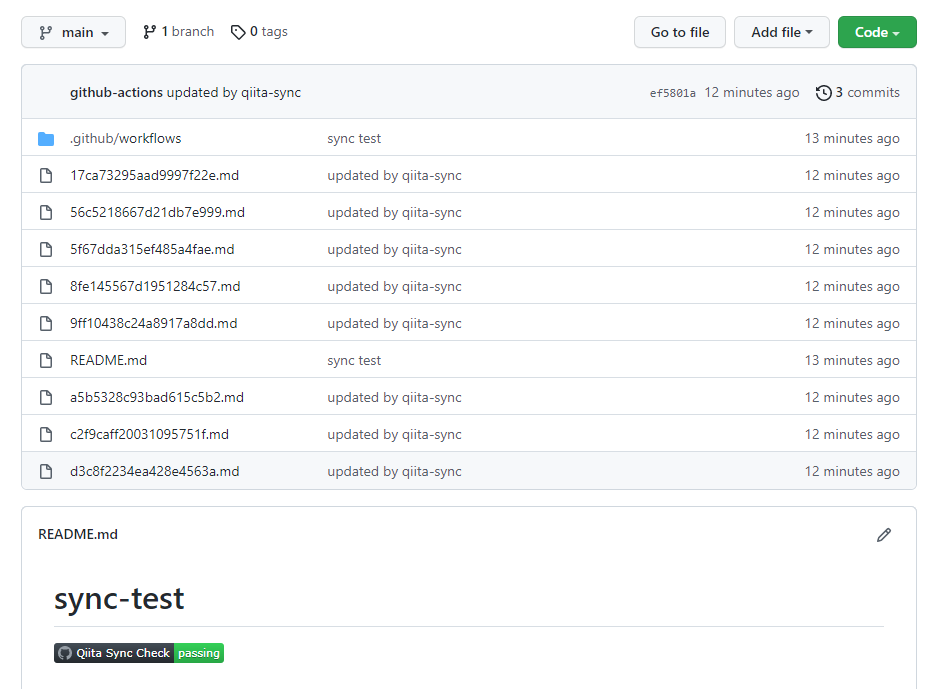
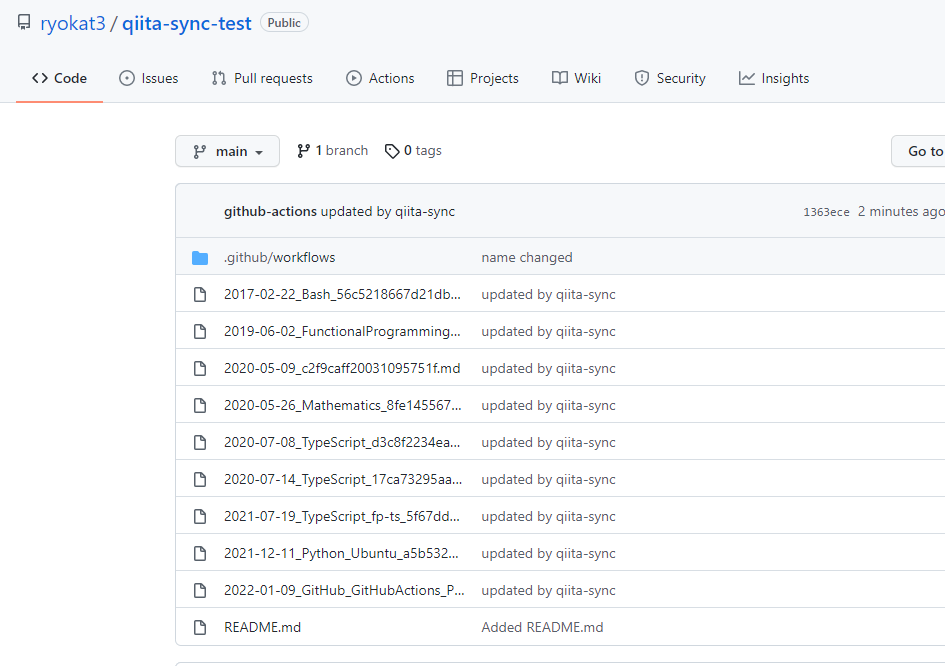
Updated qiita-sync

diff --git a/qiita/qiita_sync.md b/qiita/qiita_sync.md
@@ -168,7 +168,7 @@ jobs:
           fi
 ```
 
-この２つのファイルを GitHub に push すると同期が始まります。最初にインストールした時のファイル名は記事の ID に .md を付けたものになります。ファイルの拡張子が `.md` である限りは、ファイル名の変更やディレクトリの移動は自由なので、`git pull` した後は分かりやすいファイル名に変更してください。ただし `README.md` というファイルは同期の対象から外されています。
+この２つのファイルを GitHub に push すると同期が始まります。最初にインストールした時のファイル名は __最初に記事を作成した日付 + タグ + 記事の ID + .md__ になります。ファイルの拡張子が `.md` である限りは、ファイル名の変更やディレクトリの移動は自由なので、`git pull` した後は分かりやすいファイル名に変更してください。ただし `README.md` というファイルは同期の対象から外されています。
 
 :::note info
 ファイル名の変更や移動は自由
